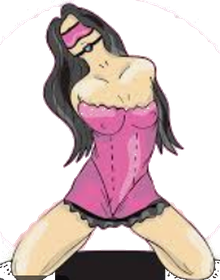
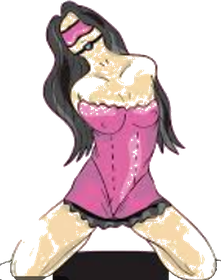
fix: eliminate bottom particle freeze glitch, defringe spicy_corset_girl.png transparency

diff --git a/css/base.css b/css/base.css
@@ -207,7 +207,8 @@ body.puzzle-mode .aurora-orb {
 
 .romance-particle {
   position: absolute;
-  bottom: -50px;
+  bottom: -110px;
+  opacity: 0;
   user-select: none;
   -webkit-user-select: none;
   pointer-events: none;
@@ -238,16 +239,17 @@ body.puzzle-mode .aurora-orb {
     opacity: 0;
   }
   15% {
-    opacity: 0.75;
+    opacity: var(--target-opacity, 0.75);
   }
   50% {
-    transform: translateY(-50vh) translateX(15px) rotate(var(--rot, 15deg)) scale(1.05);
+    transform: translateY(-55vh) translateX(15px) rotate(var(--rot, 15deg)) scale(1.05);
+    opacity: var(--target-opacity, 0.75);
   }
   85% {
-    opacity: 0.6;
+    opacity: calc(var(--target-opacity, 0.75) * 0.8);
   }
   100% {
-    transform: translateY(-110vh) translateX(-20px) rotate(calc(var(--rot, 15deg) * 2)) scale(0.85);
+    transform: translateY(-118vh) translateX(-20px) rotate(calc(var(--rot, 15deg) * 2)) scale(0.85);
     opacity: 0;
   }
 }

diff --git a/js/romanceBg.js b/js/romanceBg.js
@@ -115,14 +115,13 @@
     const left = Math.random() * 92;
     // 10% slower: duration scaled from [7..13s] to [7.7..14.3s]
     const duration = (7 + Math.random() * 6) * 1.10;
-    const delay = Math.random() * 1.5;
     const opacity = 0.5 + Math.random() * 0.45;
     const rot = (Math.random() - 0.5) * 45;
 
     el.style.left = `${left}vw`;
     el.style.animationDuration = `${duration}s`;
-    el.style.animationDelay = `${delay}s`;
-    el.style.opacity = opacity;
+    el.style.animationDelay = `0s`;
+    el.style.setProperty('--target-opacity', opacity);
     el.style.setProperty('--rot', `${rot}deg`);
 
     container.appendChild(el);
@@ -131,7 +130,7 @@
       if (el.parentNode) {
         el.parentNode.removeChild(el);
       }
-    }, (duration + delay) * 1000);
+    }, duration * 1000);
   }
 
   function init() {
